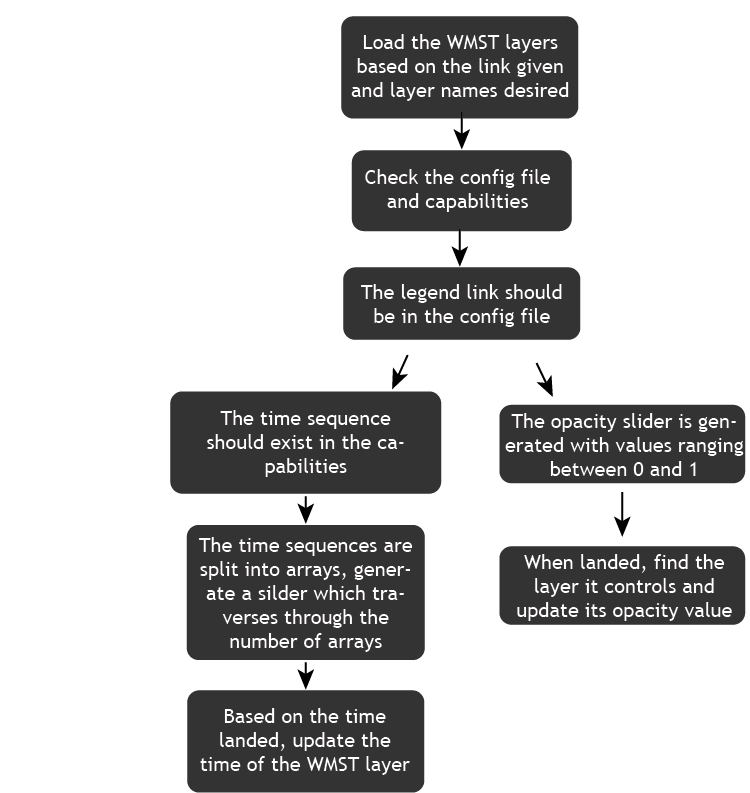
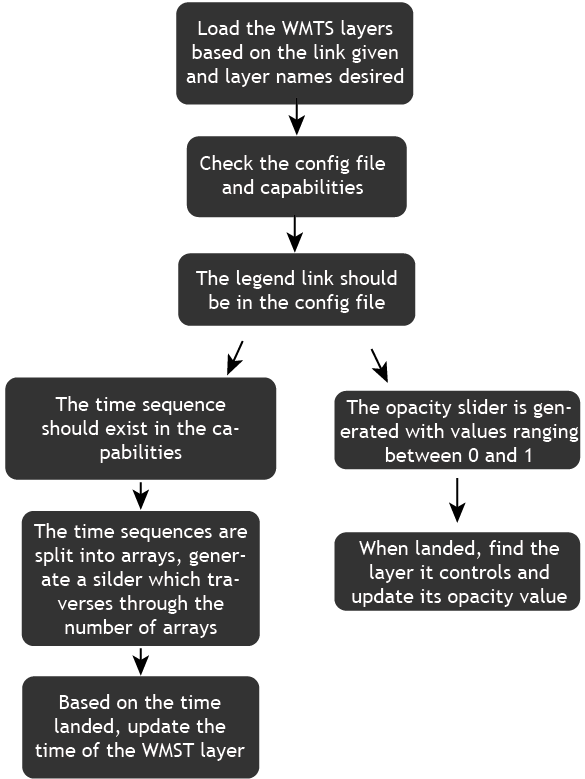
added flowcharts for WMTS layers and stacked bar graphs

diff --git a/about.html b/about.html
@@ -192,6 +192,32 @@
                         <h4>Geo-Comparison Flow Chart</h4>
                     </div>
                 </div>
+                <div class="col-md-4 col-sm-6 portfolio-item">
+                    <a href="#portfolioModal5" class="portfolio-link" data-toggle="modal">
+                        <div class="portfolio-hover">
+                            <div class="portfolio-hover-content">
+                                <i class="fa fa-plus fa-3x"></i>
+                            </div>
+                        </div>
+                        <img src="images/flowcharts/wmts.png" class="img-responsive" alt="">
+                    </a>
+                    <div class="portfolio-caption">
+                        <h4>WMTS Layers Flow Chart</h4>
+                    </div>
+                </div>
+                <div class="col-md-4 col-sm-6 portfolio-item">
+                    <a href="#portfolioModal6" class="portfolio-link" data-toggle="modal">
+                        <div class="portfolio-hover">
+                            <div class="portfolio-hover-content">
+                                <i class="fa fa-plus fa-3x"></i>
+                            </div>
+                        </div>
+                        <img src="images/flowcharts/stackedbar.png" class="img-responsive" alt="">
+                    </a>
+                    <div class="portfolio-caption">
+                        <h4>Stacked Bars Flow Chart</h4>
+                    </div>
+                </div>
             </section>
 
 
@@ -628,6 +654,56 @@
                                 <h3>Geo-Comparison Flow Chart</h3>
 
                                 <img src="images/flowcharts/geocomparison.png" class="img-responsive img-centered" alt="" height="280" width="600">
+                            </div>
+                        </div>
+                    </div>
+                </div>
+            </div>
+        </div>
+    </div>
+    <!-- Documentation Modal 5 -->
+    <div class="portfolio-modal modal fade" id="portfolioModal5" tabindex="-1" role="dialog" aria-hidden="true">
+        <div class="modal-dialog">
+            <div class="modal-content">
+                <div class="close-modal" data-dismiss="modal">
+                    <div class="lr">
+                        <div class="rl">
+                        </div>
+                    </div>
+                </div>
+                <div class="container">
+                    <div class="row">
+                        <div class="col-lg-8 col-lg-offset-2">
+                            <div class="modal-body">
+                                <!-- Project Details Go Here -->
+                                <h3>WMTS Layers Flow Chart</h3>
+
+                                <img src="images/flowcharts/wmts.png" class="img-responsive img-centered" alt="" height="280" width="600">
+                            </div>
+                        </div>
+                    </div>
+                </div>
+            </div>
+        </div>
+    </div>
+    <!-- Documentation Modal 6 -->
+    <div class="portfolio-modal modal fade" id="portfolioModal6" tabindex="-1" role="dialog" aria-hidden="true">
+        <div class="modal-dialog">
+            <div class="modal-content">
+                <div class="close-modal" data-dismiss="modal">
+                    <div class="lr">
+                        <div class="rl">
+                        </div>
+                    </div>
+                </div>
+                <div class="container">
+                    <div class="row">
+                        <div class="col-lg-8 col-lg-offset-2">
+                            <div class="modal-body">
+                                <!-- Project Details Go Here -->
+                                <h3>Stacked Bars Flow Chart</h3>
+
+                                <img src="images/flowcharts/stackedbar.png" class="img-responsive img-centered" alt="" height="280" width="600">
                             </div>
                         </div>
                     </div>
